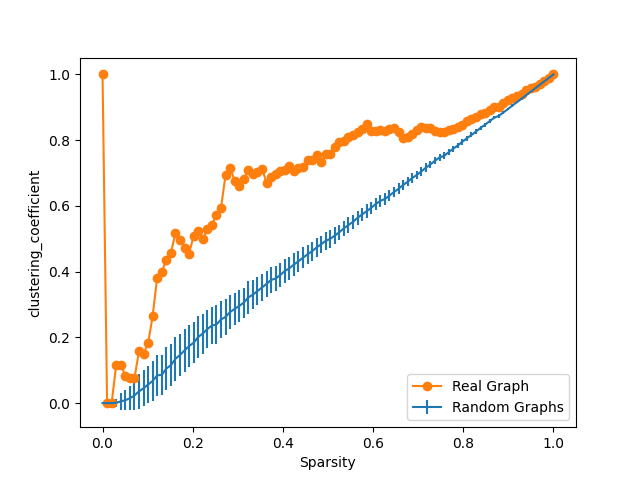
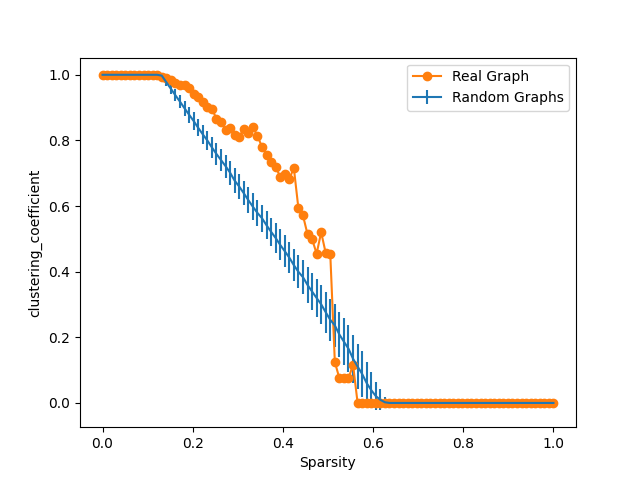
added class to compute graph metrics

Changed region(s): [[0.1562, 0.125, 0.9062, 0.875], [0.0625, 0.4062, 0.125, 0.4375]]

diff --git a/main.py b/main.py
@@ -22,16 +22,8 @@ class RandomGraphAnalyzer:
         self.analysis_type = analysis_type
         self.nnodes = fc_matrix.shape[0]
         self.nedges = int(self.nnodes * (self.nnodes - 1) / 2)
-        
-        if analysis_type == 'sparsity':
-            self.sparsity = np.linspace(0, 1, 100)
-            self.threshold = None
-        elif analysis_type == 'threshold':
-            self.threshold = np.linspace(0, 1, 100)
-            self.sparsity = None
-        else:
-            raise ValueError('Invalid analysis_type. Must be either "sparsity" or "threshold".')
-
+        self.search_space = np.linspace(0, 1, 100)
+        assert self.analysis_type in ['sparsity', 'threshold'], 'Invalid analysis_type. Must be either "sparsity" or "threshold".'
         self.features = features
 
     def gen_random_graphs(self):
@@ -40,9 +32,9 @@ class RandomGraphAnalyzer:
         '''
         if self.analysis_type == 'sparsity':
             # generate n_rnd_graphs random graphs for each sparsity value
-            self.random_graphs = [[utils.RandomBinGraph(self.nnodes, binarize_type=self.analysis_type, binarize_param=sparsity).generate() for _ in range(self.n_rnd_graphs)] for sparsity in self.sparsity]
+            self.random_graphs = [[utils.RandomBinGraph(self.nnodes, binarize_type=self.analysis_type, binarize_param=sparsity).generate() for _ in range(self.n_rnd_graphs)] for sparsity in self.search_space]
         elif self.analysis_type == 'threshold':
-            self.random_graphs = [[utils.RandomBinGraph(self.nnodes, binarize_type=self.analysis_type, binarize_param=threshold).generate(min_weight=np.nanmin(self.fc_matrix), max_weight=np.nanmax(self.fc_matrix)) for _ in range(self.n_rnd_graphs)] for threshold in self.threshold]
+            self.random_graphs = [[utils.RandomBinGraph(self.nnodes, binarize_type=self.analysis_type, binarize_param=threshold).generate(min_weight=np.nanmin(self.fc_matrix), max_weight=np.nanmax(self.fc_matrix)) for _ in range(self.n_rnd_graphs)] for threshold in self.search_space]
         return self.random_graphs
 
     def compute_features(self):
@@ -51,13 +43,7 @@ class RandomGraphAnalyzer:
         '''
         self.random_graphs_features = {}
         self.fc_graph_features = {}
-        # choose threshold or sparsity based on self.analysis_type
-        if self.analysis_type == 'sparsity':
-            time_points = self.sparsity
-        elif self.analysis_type == 'threshold':
-            time_points = self.threshold
-
-        for i, sparsity in enumerate(time_points):
+        for i, sparsity in enumerate(self.search_space):
             for feature in self.features:
                 if feature == 'global_efficiency':
                     self.random_graphs_features['global_efficiency_{}'.format(sparsity)] = [bct.efficiency_bin(graph) for graph in self.random_graphs[i]]
@@ -77,9 +63,9 @@ class RandomGraphAnalyzer:
         Plot the features of the random graphs.
         '''
         for i, feature in enumerate(self.features):
-            plt.errorbar(self.sparsity, [np.mean(self.random_graphs_features['{}_{}'.format(feature, sparsity)]) for sparsity in self.sparsity], 
-                         yerr=[np.std(self.random_graphs_features['{}_{}'.format(feature, sparsity)]) for sparsity in self.sparsity], label='Random Graphs')
-            plt.plot(self.sparsity, [self.fc_graph_features['{}_{}'.format(feature, sparsity)] for sparsity in self.sparsity], label='Real Graph', marker='o')
+            plt.errorbar(self.search_space, [np.mean(self.random_graphs_features['{}_{}'.format(feature, sparsity)]) for sparsity in self.search_space], 
+                         yerr=[np.std(self.random_graphs_features['{}_{}'.format(feature, sparsity)]) for sparsity in self.search_space], label='Random Graphs')
+            plt.plot(self.search_space, [self.fc_graph_features['{}_{}'.format(feature, sparsity)] for sparsity in self.search_space], label='Real Graph', marker='o')
             plt.xlabel('Sparsity')
             plt.ylabel(feature)
             plt.legend()
